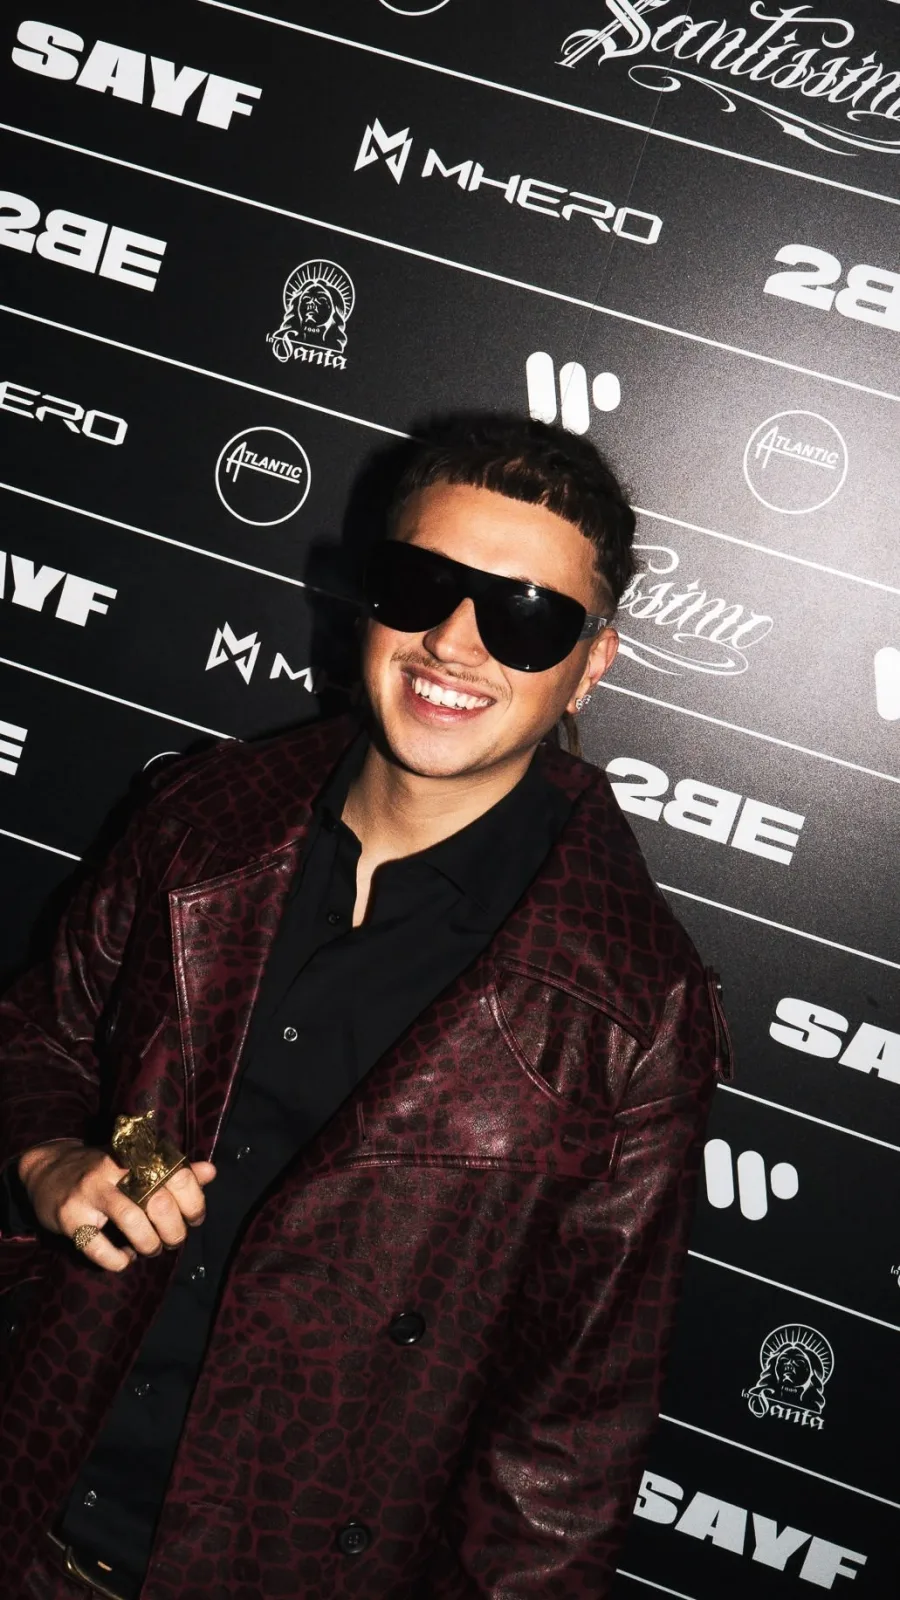
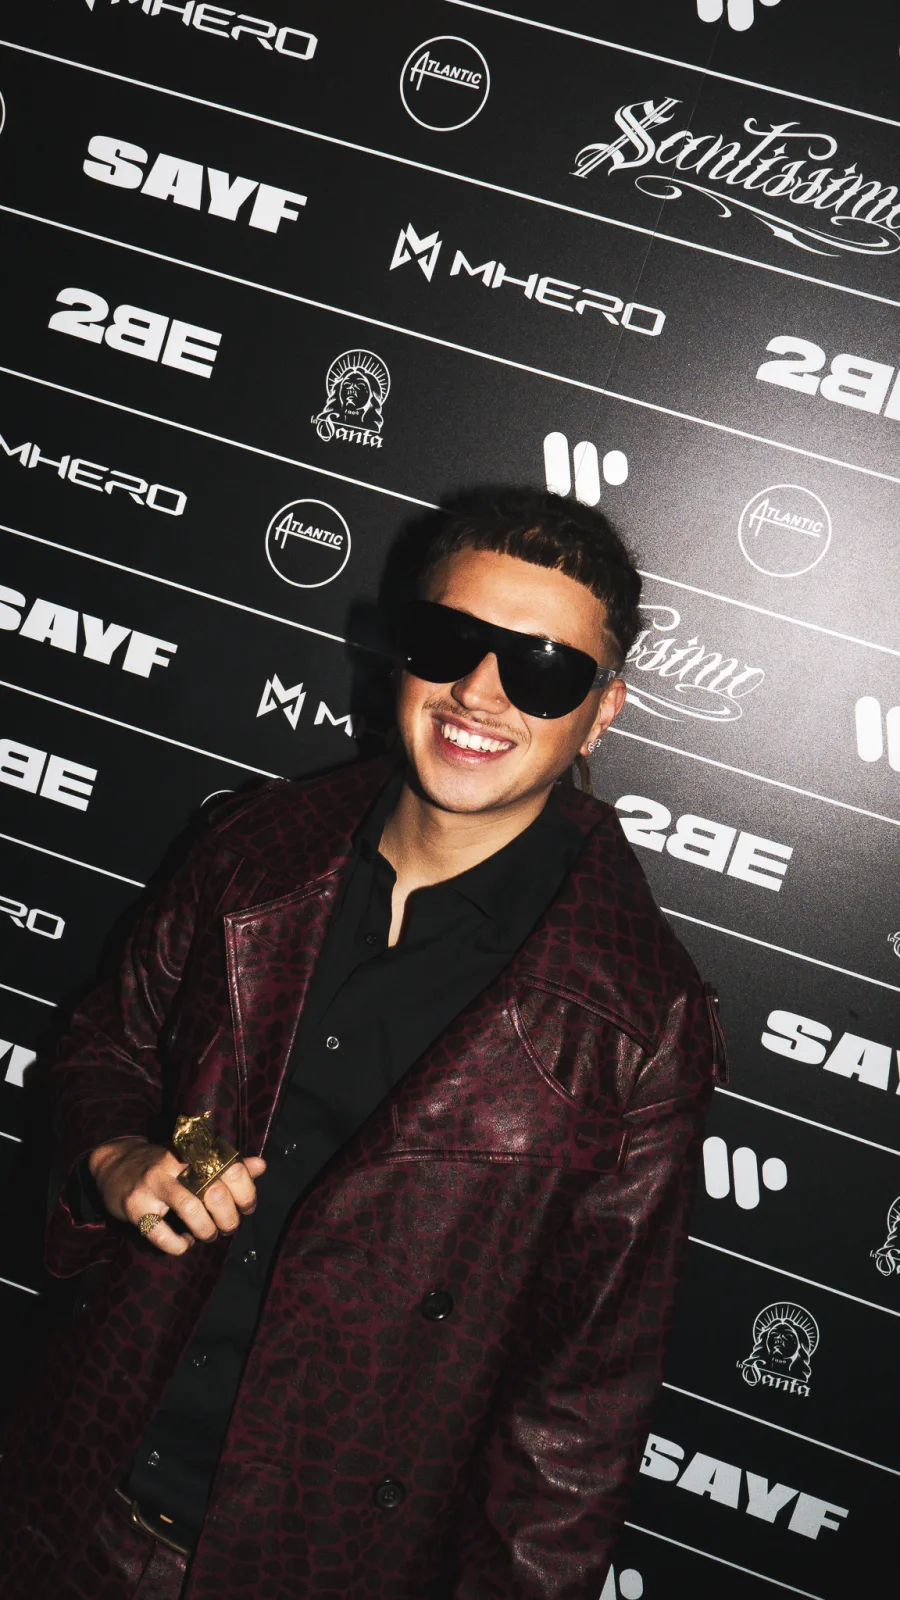
feat(homepage): refresh Aurora's portfolio
What:
- Move Video above Foto in the homepage and menu, and reorder the
  nine gallery photos to match the supplied reference.
- Replace the Juli reel with Kid Yugi and add its YouTube cover.
- Replace the biography, add TikTok and LinkedIn, remove the phone
  from the contact section and structured data, and add AI content
  creation to the Video service.

Why:
- Publish Aurora's updated portfolio, services, and contact channels.
- Use the four supplied originals as WebP images at 1600px on the
  long side, preserving their color profiles.

Files:
- index.html: portfolio, biography, services, and contact updates.
- media/images/kid-yugi.webp: new live gallery photo.
- media/images/sayf.webp: refreshed Sayf gallery photo.
- media/images/olly1.webp: refreshed Olly gallery photo.
- media/images/blanco.webp: refreshed Blanco gallery photo.
- media/reels/copertine/kid-yugi.webp: cover for the new reel.

Validation:
- Checked desktop and mobile in Chrome, including gallery order,
  image loading, the lightbox, the reel popup, and contact links.
- Validated the WebP files and ran git diff --cached --check.

diff --git a/index.html b/index.html
@@ -352,6 +352,7 @@
     .contact-link { font-family:var(--sans); font-size:14px; letter-spacing:.22em; text-transform:uppercase; color:#999; text-decoration:none; transition:color .2s; }
     .contact-link:hover { color:var(--white); }
     .contact-sep { color:#555; }
+    @media(max-width:768px){ .contact-sep { display:none; } }
     .contact-location { margin-top:36px; font-family:var(--sans); font-size:13px; letter-spacing:.18em; color:var(--white); text-transform:uppercase; }
 
     footer {
@@ -418,7 +419,6 @@
     "jobTitle": "Fotografa & Content Creator",
     "description": "Fotografa di concerti e Content Creator. Ha fotografato artisti italiani tra cui Gué, Alfa, Marracash, Tedua, Olly, Gabry Ponte, Frah Quintale, Ernia, Tommaso Paradiso, Juli, Sayf, Shiva, Blanco e Michele Bravi in venue come Unipol Forum Milano, San Siro, Stadio Luigi Ferraris Genova e Unipol Arena Bologna. Disponibile a Reggio Emilia, Milano e in trasferta.",
     "email": "merendaurora@gmail.com",
-    "telephone": "+393663287202",
     "address": {
       "@type": "PostalAddress",
       "addressLocality": "Reggio Emilia",
@@ -566,8 +566,8 @@
 <!-- MENU OVERLAY -->
 <div class="menu-overlay" id="menu-overlay">
   <a href="#about">Chi sono</a>
-  <a href="#foto">Foto</a>
   <a href="#video-section">Video</a>
+  <a href="#foto">Foto</a>
   <a href="#instagram">Instagram</a>
   <a href="#contact">Contatti</a>
 </div>
@@ -598,37 +598,16 @@
   <div class="about-content">
     <h2 class="section-title reveal" style="color:var(--white)">Chi sono</h2>
     <p class="about-bio reveal">
-      Mi chiamo Aurora, ho 21 anni e sono fortemente motivata a costruire una carriera nella direzione creativa, con l'obiettivo di crescere professionalmente come Art Director.
-      <br/><br/>
-      Il mio percorso inizia a 16 anni, quando nasce il mio interesse per la fotografia e l'arte audiovisiva. Settori nei quali ho sviluppato nel tempo competenze e sensibilità per la composizione visiva e la narrazione per immagini.
-      <br/><br/>
-      In ogni progetto ricerco un equilibrio tra estetica e autenticità, impegnandomi a valorizzare il lato umano delle persone coinvolte.
-      <br/><br/>
-      Mantenendo un approccio aperto all'ascolto, sia degli altri che di me stessa.
+      Mi chiamo Aurora e ho 21 anni.<br/>
+      Il mio percorso nelle arti visive ha inizio nel 2022 e si sviluppa attraverso la fotografia e la direzione creativa, con l’obiettivo di crescere professionalmente come Art Director.
+    </p>
+    <p class="about-bio reveal">
+      In ogni progetto ricerco un equilibrio tra estetica e autenticità, valorizzando l’identità e la dimensione umana dei soggetti coinvolti attraverso un approccio fondato sull’ascolto, sulla ricerca di nuove prospettive e sulla continua evoluzione personale e professionale.
     </p>
     <div class="about-cta-group reveal">
       <a href="files/artistic-curriculum.pdf" class="about-cta" target="_blank">CV Artistico</a>
       <a href="files/creative-portfolio.pdf" class="about-cta" target="_blank">Portfolio</a>
     </div>
-  </div>
-</section>
-
-<!-- ══ FOTO ══ -->
-<section id="foto">
-  <div class="gallery-header">
-    <span class="section-label reveal">Portfolio</span>
-    <h2 class="section-title reveal">Fotografie di concerti</h2>
-  </div>
-  <div class="photo-grid">
-    <div class="photo-item reveal-scale"><img src="media/images/olly1.webp" alt="Olly live — foto Aurora Merenda" loading="lazy"/></div>
-    <div class="photo-item reveal-scale" style="transition-delay:.04s"><img src="media/images/alfa.webp" alt="Alfa suona la chitarra dal vivo — fotografia di Aurora Merenda" width="1066" height="1600" loading="lazy" decoding="async"/></div>
-    <div class="photo-item reveal-scale" style="transition-delay:.08s"><img src="media/images/marracash.webp" alt="Marracash sul palco durante il concerto — fotografia di Aurora Merenda" width="1066" height="1600" loading="lazy" decoding="async"/></div>
-    <div class="photo-item reveal-scale"><img src="media/images/gue.webp" alt="Gué in concerto con giacca blu — fotografia live di Aurora Merenda" width="1024" height="1536" loading="lazy" decoding="async"/></div>
-    <div class="photo-item reveal-scale" style="transition-delay:.04s"><img src="media/images/sayf.webp" alt="Sayf — foto Aurora Merenda" loading="lazy"/></div>
-    <div class="photo-item reveal-scale" style="transition-delay:.08s"><img src="media/images/olly2.webp" alt="Olly live — foto Aurora Merenda" loading="lazy"/></div>
-    <div class="photo-item reveal-scale" style="transition-delay:.12s"><img src="media/images/frah-quintale.webp" alt="Frah Quintale live — foto Aurora Merenda" loading="lazy"/></div>
-    <div class="photo-item reveal-scale" style="transition-delay:.16s"><img src="media/images/blanco.webp" alt="Blanco live — foto Aurora Merenda" loading="lazy"/></div>
-    <div class="photo-item reveal-scale" style="transition-delay:.20s"><img src="media/images/ernia.webp" alt="Ernia live — foto Aurora Merenda" loading="lazy"/></div>
   </div>
 </section>
 
@@ -666,11 +645,11 @@
       <div class="reel-play"><svg viewBox="0 0 24 24"><polygon points="5,3 19,12 5,21"/></svg></div>
       <span class="reel-lbl">Frah Quintale</span>
     </div>
-    <div class="reel-item" data-src="https://youtube.com/shorts/tYfptpAuWNE" data-title="Juli">
-      <img class="reel-preview" src="media/reels/copertine/juli.webp" alt="Juli live Milano aprile 2026 — foto Aurora Merenda" loading="lazy"/>
+    <div class="reel-item" data-src="https://youtube.com/shorts/uox5_m9i5ec" data-title="Kid Yugi">
+      <img class="reel-preview" src="media/reels/copertine/kid-yugi.webp" alt="Kid Yugi dal vivo — copertina del reel" loading="lazy"/>
       <div class="reel-dim"></div>
       <div class="reel-play"><svg viewBox="0 0 24 24"><polygon points="5,3 19,12 5,21"/></svg></div>
-      <span class="reel-lbl">Juli</span>
+      <span class="reel-lbl">Kid Yugi</span>
     </div>
     <div class="reel-item" data-src="https://youtube.com/shorts/HMvfWbhFbrE" data-title="Gabry Ponte">
       <img class="reel-preview" src="media/reels/copertine/gabry-ponte.webp" alt="Gabry Ponte live San Siro Milano giugno 2026 — foto Aurora Merenda" loading="lazy"/>
@@ -731,6 +710,25 @@
   </div>
 </section>
 
+<!-- ══ FOTO ══ -->
+<section id="foto">
+  <div class="gallery-header">
+    <span class="section-label reveal">Portfolio</span>
+    <h2 class="section-title reveal">Foto</h2>
+  </div>
+  <div class="photo-grid">
+    <div class="photo-item reveal-scale"><img src="media/images/kid-yugi.webp" alt="Kid Yugi canta sul palco sotto luci rosse" width="1067" height="1600" loading="lazy" decoding="async"/></div>
+    <div class="photo-item reveal-scale" style="transition-delay:.04s"><img src="media/images/sayf.webp" alt="Sayf sorride con gli occhiali da sole davanti a una parete di loghi" width="900" height="1600" loading="lazy" decoding="async"/></div>
+    <div class="photo-item reveal-scale" style="transition-delay:.08s"><img src="media/images/olly1.webp" alt="Olly sul palco con un gilet di jeans" width="1067" height="1600" loading="lazy" decoding="async"/></div>
+    <div class="photo-item reveal-scale"><img src="media/images/frah-quintale.webp" alt="Frah Quintale canta con una maglietta verde" width="900" height="1600" loading="lazy" decoding="async"/></div>
+    <div class="photo-item reveal-scale" style="transition-delay:.04s"><img src="media/images/ernia.webp" alt="Primo piano di Ernia sul palco sotto una luce arancione" width="900" height="1600" loading="lazy" decoding="async"/></div>
+    <div class="photo-item reveal-scale" style="transition-delay:.08s"><img src="media/images/marracash.webp" alt="Marracash in completo blu sul palco illuminato di verde" width="1066" height="1600" loading="lazy" decoding="async"/></div>
+    <div class="photo-item reveal-scale"><img src="media/images/gue.webp" alt="Gué in concerto con una giacca blu" width="1024" height="1536" loading="lazy" decoding="async"/></div>
+    <div class="photo-item reveal-scale" style="transition-delay:.04s"><img src="media/images/alfa.webp" alt="Alfa suona una chitarra elettrica arancione dal vivo" width="1066" height="1600" loading="lazy" decoding="async"/></div>
+    <div class="photo-item reveal-scale" style="transition-delay:.08s"><img src="media/images/blanco.webp" alt="Blanco canta a braccia aperte sotto luci blu" width="900" height="1600" loading="lazy" decoding="async"/></div>
+  </div>
+</section>
+
 <!-- ══ INSTAGRAM ══ -->
 <!-- INSTAGRAM SECTION — commentata: piano Elfsight scaduto, da riattivare dopo rinnovo
 <section id="instagram">
@@ -780,12 +778,14 @@
   <h2 class="contact-title reveal">Lavoriamo<br/>insieme?</h2>
   <div class="contact-links reveal" style="transition-delay:.18s">
     <a href="mailto:merendaurora@gmail.com" class="contact-link">merendaurora@gmail.com</a>
-    <span class="contact-sep">·</span>
-    <a href="tel:+393663287202" class="contact-link">(+39) 366 328 7202</a>
-    <span class="contact-sep">·</span>
+    <span class="contact-sep" aria-hidden="true">·</span>
     <a href="https://instagram.com/roradirector" target="_blank" class="contact-link">Instagram</a>
-    <span class="contact-sep">·</span>
+    <span class="contact-sep" aria-hidden="true">·</span>
     <a href="https://www.youtube.com/@merendaurora/shorts" target="_blank" class="contact-link">YouTube</a>
+    <span class="contact-sep" aria-hidden="true">·</span>
+    <a href="https://www.tiktok.com/@merendaurora?_r=1&amp;_t=ZN-9B6hukkk3aY" target="_blank" rel="noopener" class="contact-link">TikTok</a>
+    <span class="contact-sep" aria-hidden="true">·</span>
+    <a href="https://www.linkedin.com/in/aurora-merenda-122231291/" target="_blank" rel="noopener" class="contact-link">LinkedIn</a>
   </div>
   <p class="contact-location reveal" style="transition-delay:.32s">Reggio Emilia · Milano · Trasferte</p>
 </section>
@@ -801,7 +801,10 @@
     </div>
     <div class="service-card reveal" style="transition-delay:.07s">
       <h3 class="service-name">Video</h3>
-      <div class="service-desc">Produzione di contenuti video: videoclip musicali, reel promozionali e coperture evento.</div>
+      <div class="service-desc">
+        Produzione di contenuti video: videoclip musicali, reel promozionali e coperture evento.<br/>
+        <strong>+ creazione contenuti AI</strong>
+      </div>
     </div>
     <div class="service-card reveal" style="transition-delay:.14s">
       <h3 class="service-name">Content Creation</h3>
